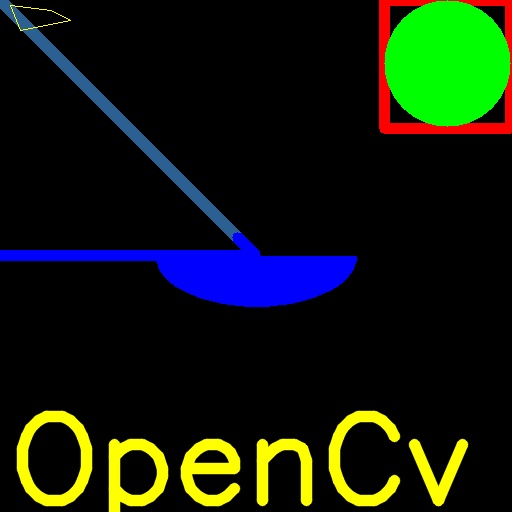
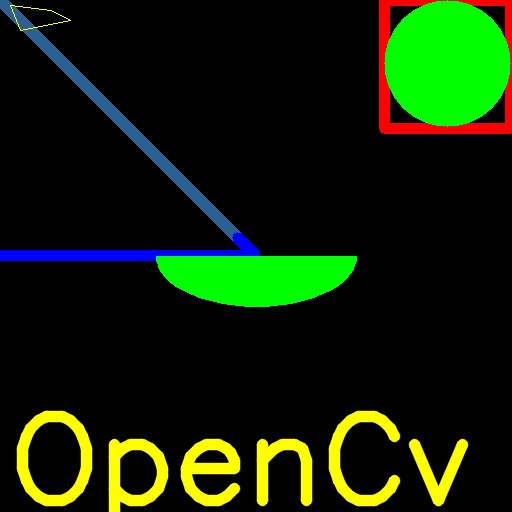
refresh

Changed region(s): [[0.2812, 0.5, 0.7188, 0.625]]

diff --git a/1_4_Mouse_as_paint_brush.py b/1_4_Mouse_as_paint_brush.py
@@ -1,0 +1,55 @@
+# import cv2 as cv
+# events = [i for i in dir(cv) if 'EVENT' in i]
+# print( events )
+
+# import numpy as np
+# import cv2 as cv
+# # mouse callback function
+# def draw_circle(event,x,y,flags,param):
+#     if event == cv.EVENT_LBUTTONDBLCLK:
+#         cv.circle(img,(x,y),100,(255,0,0),-1)
+# # Create a black image, a window and bind the function to window
+# img = np.zeros((512,512,3), np.uint8)
+# cv.namedWindow('image')
+# cv.setMouseCallback('image',draw_circle)
+# while(1):
+#     cv.imshow('image',img)
+#     if cv.waitKey(20) & 0xFF == 27:
+#         break
+# cv.destroyAllWindows()
+
+# import numpy as np
+# import cv2 as cv
+# drawing = False # true if mouse is pressed
+# mode = True # if True, draw rectangle. Press 'm' to toggle to curve
+# ix,iy = -1,-1
+# # mouse callback function
+# def draw_circle(event,x,y,flags,param):
+#     global ix,iy,drawing,mode
+#     if event == cv.EVENT_LBUTTONDOWN:
+#         drawing = True
+#         ix,iy = x,y
+#     elif event == cv.EVENT_MOUSEMOVE:
+#         if drawing == True:
+#             if mode == True:
+#                 cv.rectangle(img,(ix,iy),(x,y),(0,255,0),-1)
+#             else:
+#                 cv.circle(img,(x,y),5,(0,0,255),-1)
+#     elif event == cv.EVENT_LBUTTONUP:
+#         drawing = False
+#         if mode == True:
+#             cv.rectangle(img,(ix,iy),(x,y),(0,255,0),-1)
+#         else:
+#             cv.circle(img,(x,y),5,(0,0,255),-1)
+#         # print('up')
+# img = np.zeros((512,512,3), np.uint8)
+# cv.namedWindow('image')
+# cv.setMouseCallback('image',draw_circle)
+# while(1):
+#     cv.imshow('image',img)
+#     k = cv.waitKey(1) & 0xFF
+#     if k == ord('m'):
+#         mode = not mode
+#     elif k == 27:
+#         break
+# cv.destroyAllWindows()

diff --git a/1_5_Trackbar_As_The_Color_Palette.py b/1_5_Trackbar_As_The_Color_Palette.py
@@ -1,0 +1,29 @@
+import numpy as np
+import cv2 as cv
+def nothing(x):
+    pass
+# Create a black image, a window
+img = np.zeros((300,512,3), np.uint8)
+cv.namedWindow('image')
+# create trackbars for color change
+cv.createTrackbar('R','image',0,255,nothing)
+cv.createTrackbar('G','image',0,255,nothing)
+cv.createTrackbar('B','image',0,255,nothing)
+# create switch for ON/OFF functionality
+switch = '0 : OFF \n1 : ON'
+cv.createTrackbar(switch, 'image',0,1,nothing)
+while(1):
+    cv.imshow('image',img)
+    k = cv.waitKey(1) & 0xFF
+    if k == 27:
+        break
+    # get current positions of four trackbars
+    r = cv.getTrackbarPos('R','image')
+    g = cv.getTrackbarPos('G','image')
+    b = cv.getTrackbarPos('B','image')
+    s = cv.getTrackbarPos(switch,'image')
+    if s == 0:
+        img[:] = 0
+    else:
+        img[:] = [b,g,r]
+cv.destroyAllWindows()

diff --git a/1_3_Drawing_functions.py b/1_3_Drawing_functions.py
@@ -1,0 +1,24 @@
+import numpy as np
+import cv2
+
+# img = cv2.imread('data/lena.jpg', 1)
+img = np.zeros([512, 512, 3], np.uint8)
+
+img = cv2.line(img, (0,0), (255,255), (147, 96, 44), 10) # 44, 96, 147
+img = cv2.arrowedLine(img, (0,255), (255,255), (255, 0, 0), 10)
+#
+img = cv2.rectangle(img, (384, 0), (510, 128), (0, 0, 255), 10)
+img = cv2.circle(img, (447, 63), 63, (0, 255, 0), -1)
+font = cv2.FONT_HERSHEY_SIMPLEX
+img = cv2.putText(img, 'OpenCv', (10, 500), font, 4, (0, 255, 255), 10, cv2.LINE_AA)
+img = cv2.ellipse(img,(256,256),(100,50),0,0,180,(0,255,0),-1)
+#
+pts = np.array([[10,5],[20,30],[70,20],[50,10]], np.int32)
+pts = pts.reshape((-1,1,2))
+img = cv2.polylines(img,[pts],True,(0,255,255))
+
+cv2.imwrite('result.jpg', img)
+cv2.imshow('image', img)
+
+cv2.waitKey(0)
+cv2.destroyAllWindows() 

diff --git a/1_2_get_started_with_video.py b/1_2_get_started_with_video.py
@@ -1,0 +1,22 @@
+import numpy as np
+import cv2 as cv
+# cap = cv.VideoCapture(0)
+cap = cv.VideoCapture('rtsp://192.168.10.20:8080/video/h264')
+# Define the codec and create VideoWriter object
+fourcc = cv.VideoWriter_fourcc(*'XVID')
+out = cv.VideoWriter('output.avi', fourcc, 20.0, (640,  480))
+while cap.isOpened():
+    ret, frame = cap.read()
+    if not ret:
+        print("Can't receive frame (stream end?). Exiting ...")
+        break
+    # frame = cv.flip(frame, 0)
+    # write the flipped frame
+    out.write(frame)
+    cv.imshow('frame', frame)
+    if cv.waitKey(1) == ord('q'):
+        break
+# Release everything if job is finished
+cap.release()
+out.release()
+cv.destroyAllWindows()

diff --git a/2_1_Accessing_and_Modifying_pixel_values.py b/2_1_Accessing_and_Modifying_pixel_values.py
@@ -1,0 +1,35 @@
+import numpy as np
+import cv2 as cv
+
+img = cv.imread('data/messi5.jpg')
+
+px = img[100,100]
+print( px )
+
+# accessing only blue pixel
+blue = img[100,100,0]
+print( blue )
+
+img[100,100] = [255,255,255]
+print( img[100,100] )
+
+# accessing RED value
+red = img.item(10,10,2)
+print(red)
+
+# modifying RED value
+img.itemset((10,10,2),100)
+print(img.item(10,10,2))
+
+# Accessing Image Properties
+print("propertis :", img.shape)
+print("size :", img.size)
+print("datatype :", img.dtype)
+
+# Image ROI
+ball = img[280:340, 330:390]
+img[273:333, 100:160] = ball
+
+cv.imshow('result',img)
+cv.waitKey(0)
+cv.destroyAllWindows()

diff --git a/1_1_get_started_with_image.py b/1_1_get_started_with_image.py
@@ -6,8 +6,9 @@ img = cv.imread("data/lena.jpg", 1)
 if img is None:
     sys.exit("Could not read the image.")
 
-cv.imshow("Display window", img)
+print(img)
+# cv.imshow("Display window", img)
 
-k = cv.waitKey(0)
-if k == ord("s"):
-    cv.imwrite("starry_night.png", img)
+# k = cv.waitKey(0)
+# if k == ord("s"):
+    # cv.imwrite("starry_night.png", img)
